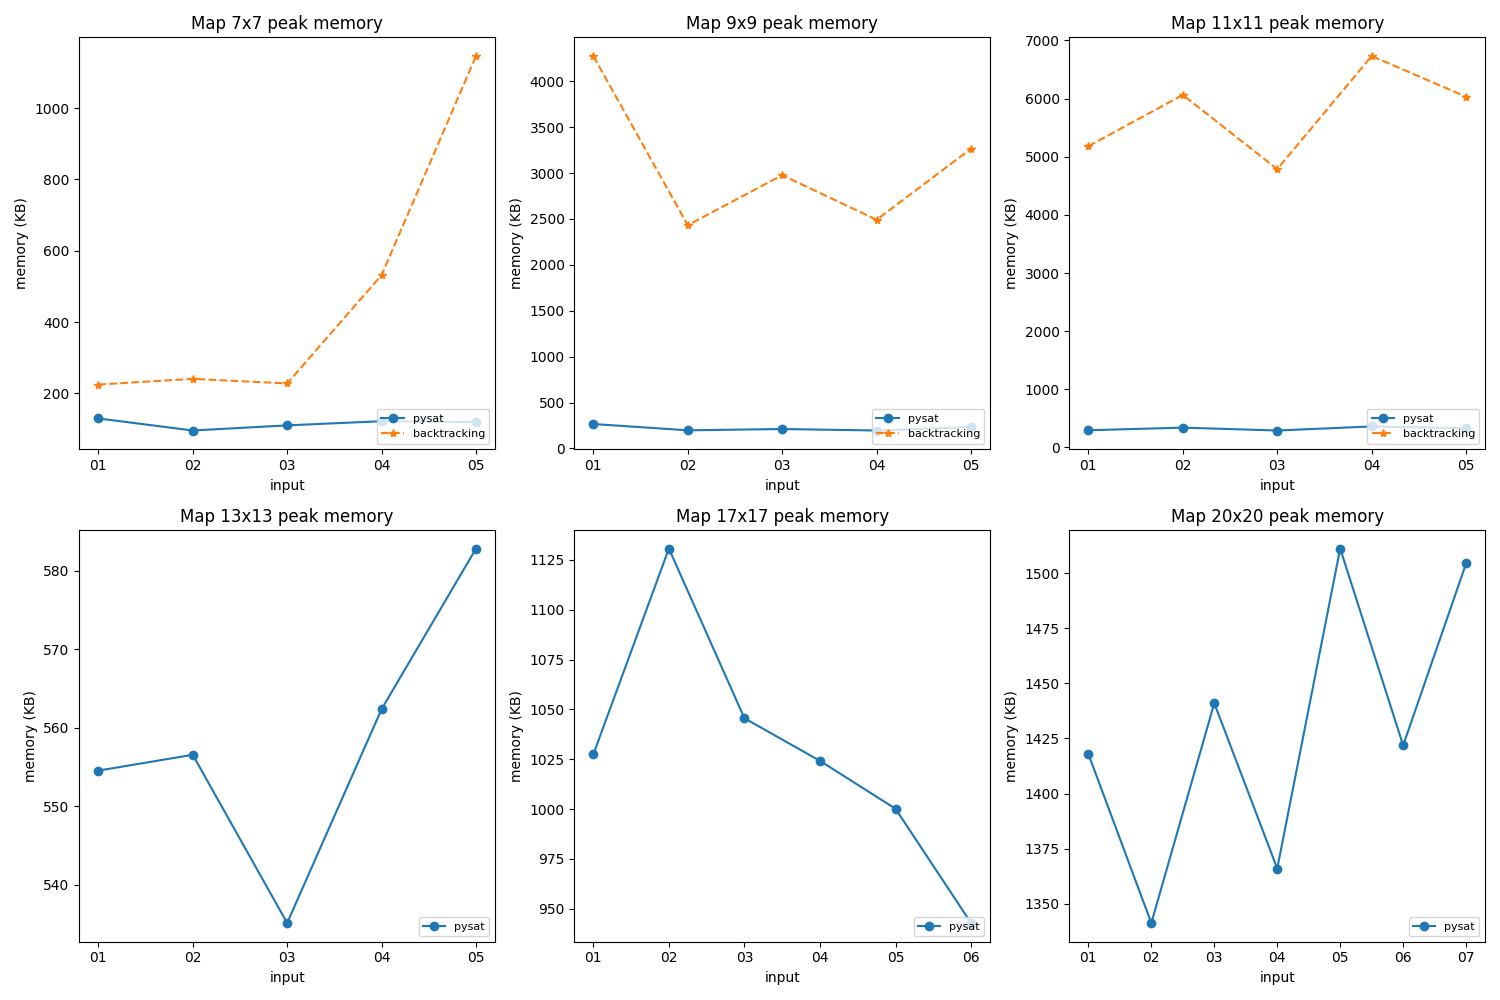
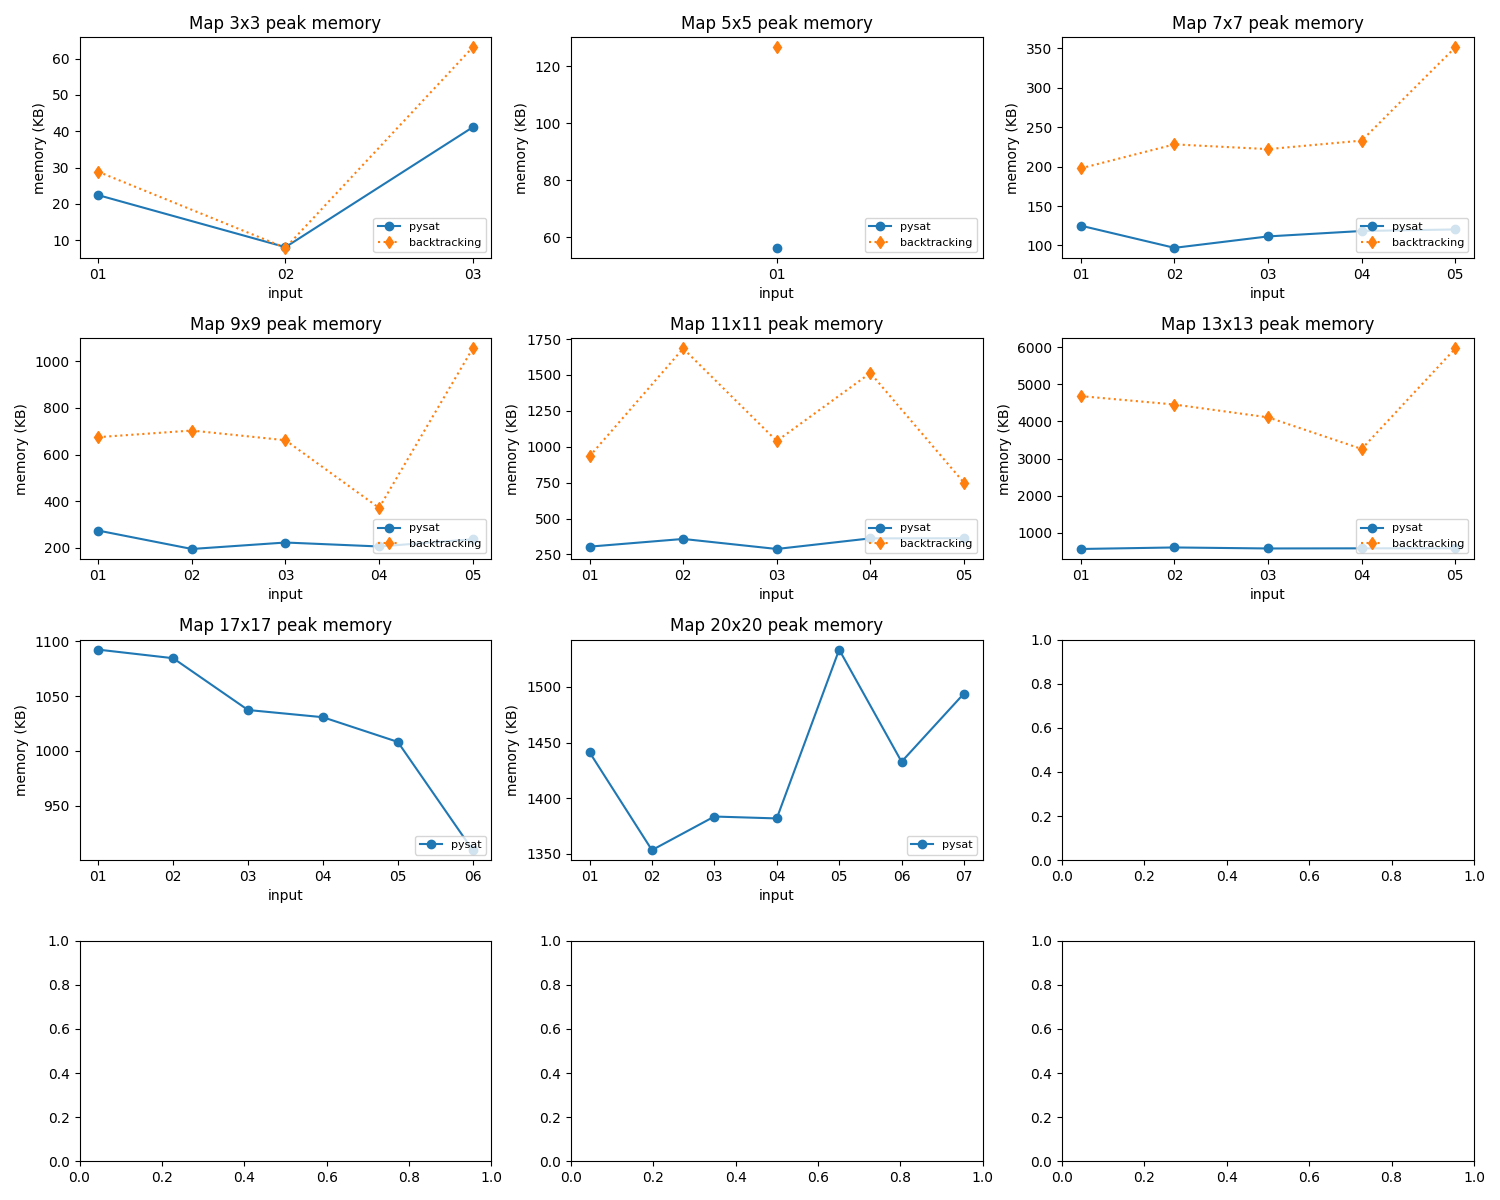
feat: ✨ enhance benchmark script

diff --git a/Source/src/benchmark.py b/Source/src/benchmark.py
@@ -8,21 +8,29 @@ from typing import Callable
 import matplotlib.pyplot as plt
 
 from __types import Grid
-from constants.path import FIG_DIR, INP_DIR
+from constants.path import FIG_DIR, INP_DIR, OUT_DIR
 from solvers import (
     solve_with_astar,
     solve_with_backtracking,
     solve_with_bruteforce,
     solve_with_pysat,
 )
-from utils import byte_convert, parse_input, time_convert
+from utils import (
+    byte_convert,
+    get_project_toml_data,
+    parse_args,
+    parse_input,
+    time_convert,
+    with_export_output,
+    with_metrics,
+)
 
-TEST_SETS = [7, 9, 11, 13, 17, 20]
-SOLVERS: list[tuple[str, Callable, list[int]]] = [
-    ("pysat", solve_with_pysat, TEST_SETS),
-    ("astar", solve_with_astar, TEST_SETS[:0]),
-    ("backtracking", solve_with_backtracking, TEST_SETS[:4]),
-    ("bruteforce", solve_with_bruteforce, TEST_SETS[:0]),
+TEST_SETS = [3, 5, 7, 9, 11, 13, 17, 20]
+SOLVERS: list[tuple[str, Callable, list[int], bool]] = [
+    ("pysat", solve_with_pysat, TEST_SETS, True),
+    ("astar", solve_with_astar, TEST_SETS[:0], False),
+    ("backtracking", solve_with_backtracking, TEST_SETS[:6], False),
+    ("bruteforce", solve_with_bruteforce, TEST_SETS[:0], False),
 ]
 SOLVER_COUNT = len(SOLVERS)
 PASSED_COUNT = [0] * SOLVER_COUNT
@@ -53,7 +61,7 @@ def profile(func: Callable):
 
 @profile
 def benchmark(solver_func, grid: Grid):
-    return bool(solver_func(grid))
+    return solver_func(grid)
 
 
 def tests_prepare():
@@ -75,7 +83,9 @@ def visualize(
 ):
     data = list(plot_data.items())
 
-    _, axs = plt.subplots(2, 3, figsize=(15, 10))
+    num_col = 3
+    num_row = len(TEST_SETS) // num_col + len(TEST_SETS) % num_col
+    _, axs = plt.subplots(num_row, num_col, figsize=(5 * num_col, 3 * num_row))
 
     x_values = [
         x for x in sorted([x for x, _ in data], key=lambda x: int(x.split("x")[0]))
@@ -102,8 +112,8 @@ def visualize(
 
     last_from = 0
     for i, size in enumerate(TEST_SETS):
-        ri = i // 3
-        ci = i % 3
+        ri = i // num_col
+        ci = i % num_col
 
         y_bar = [v for k, v in y_values if k.startswith(f"{size}x{size}")]
         x_bar = x_bars[last_from : last_from + len(y_bar)]
@@ -140,32 +150,57 @@ def visualize(
 
 
 if __name__ == "__main__":
+    __toml = get_project_toml_data()
+    args = parse_args(
+        prog=__toml["name"],
+        desc=__toml["description"],
+        wrappers=[with_metrics, with_export_output],
+    )
+
     plot_data: dict[str, list[tuple[str, float, float, bool]]] = {}
 
     print("+ Testing")
     tests = tests_prepare()
-    failed_tests = {name: [] for name, _, _ in SOLVERS}
-    for name, path, grid in tests:
-        print(f"  > exec: {name}")
-        plot_data[name] = []
+    failed_tests = {name: [] for name, _, _, _ in SOLVERS}
+    for test_name, _, grid in tests:
+        print(f"  > exec: {test_name}")
+        plot_data[test_name] = []
 
-        for i, (algo, solver, size) in enumerate(SOLVERS):
-            if len(size) == 0 or not any(name.startswith(f"{_}x{_}") for _ in size):
-                plot_data[name].append((algo, 0, 0, False))
+        for i, (algo, solver, size, with_export) in enumerate(SOLVERS):
+            if len(size) == 0 or not any(
+                test_name.startswith(f"{_}x{_}") for _ in size
+            ):
+                plot_data[test_name].append((algo, 0, 0, False))
                 continue
 
-            solved, t, _, peak_mem = benchmark(solver, grid)
-            plot_data[name].append((algo, t * 1000, peak_mem / 1024, bool(solved)))
-            if not bool(solved):
-                failed_tests[algo].append(name)
-            PASSED_COUNT[i] += bool(solved)
+            sol, t, _, peak_mem = benchmark(solver, grid)
+            is_solved = bool(sol)
+
+            if not is_solved:
+                failed_tests[algo].append(test_name)
+            else:
+                if args.export and with_export:
+                    map = test_name.split("/")[0]
+                    test_idx = test_name.split("/")[1].split("-")[1]
+                    out_file = os.path.join(OUT_DIR, map, algo, f"output-{test_idx}")
+                    os.makedirs(
+                        os.path.join(OUT_DIR, map, algo),
+                        exist_ok=True,
+                    )
+
+                    with open(out_file, "w") as f:
+                        f.write("\n".join([" ".join(x) for x in sol]))
+                        pass
+
+            plot_data[test_name].append((algo, t * 1000, peak_mem / 1024, is_solved))
+            PASSED_COUNT[i] += is_solved
 
             print(
-                f"    | {algo[:5]}: {bool(solved)}\t{time_convert(t)},{byte_convert(peak_mem)}"
+                f"    | {algo[:5]}: {is_solved}\t{time_convert(t)},{byte_convert(peak_mem)}"
             )
 
     print("\n+ Summary")
-    for i, (algo, solver, size) in enumerate(SOLVERS):
+    for i, (algo, solver, size, _) in enumerate(SOLVERS):
         used_tests = (
             [x for x in tests if any([x[0].startswith(f"{_}x{_}") for _ in size])]
             if size
@@ -179,6 +214,7 @@ if __name__ == "__main__":
                 else "",
             )
 
-    print("\n+ Plotting")
-    visualize(plot_data, Criteria.TIME)
-    visualize(plot_data, Criteria.MEMORY)
+    if args.metrics:
+        print("\n+ Plotting")
+        visualize(plot_data, Criteria.TIME)
+        visualize(plot_data, Criteria.MEMORY)
